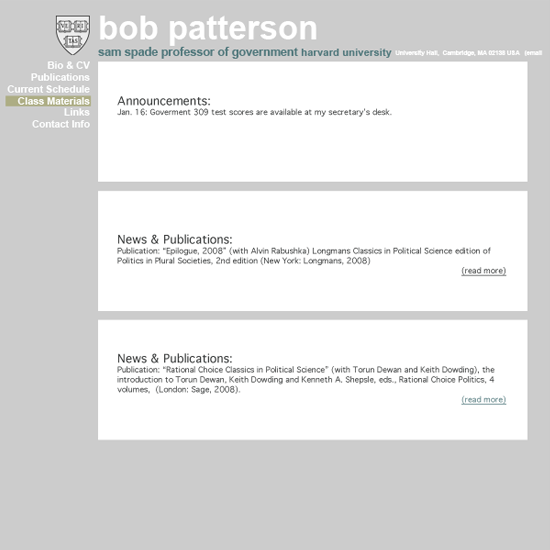
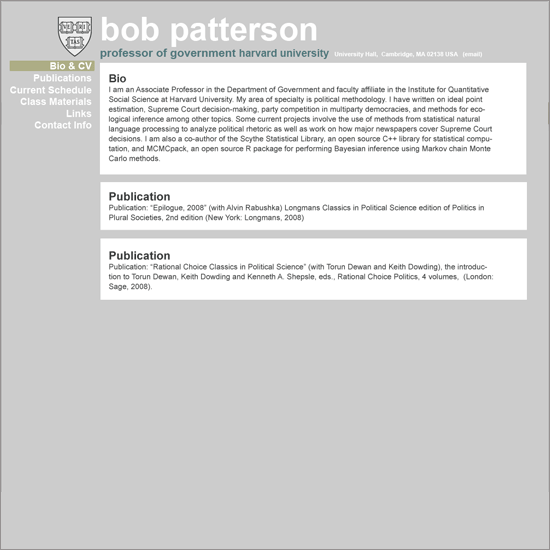
adding flavors for theme 04

diff --git a/sites/all/themes/scholar_theme_04/scholar-theme-04.css b/sites/all/themes/scholar_theme_04/scholar-theme-04.css
@@ -180,7 +180,7 @@ body.sidebar-left #footer, body.two-sidebars #footer {
 
 /* Nodes */
 
-#content-main .node, body.section-node-edit #content, body.section-node-add #content, #comments {
+#content-main .node, body.section-node-edit #content, body.section-node-add #content, #comments, .biblio-entry {
     padding: 10px;
     background: #fff;
     margin-bottom: 10px;

diff --git a/sites/all/themes/scholar_theme_04/scholar-theme-04-a.css b/sites/all/themes/scholar_theme_04/scholar-theme-04-a.css
@@ -1,0 +1,7 @@
+body {
+  background: #53565e;
+  }
+
+h2, h2.title {
+  color: #45a5af;
+  }

diff --git a/sites/all/themes/scholar_theme_04/scholar-theme-04-b.css b/sites/all/themes/scholar_theme_04/scholar-theme-04-b.css
@@ -1,0 +1,7 @@
+body {
+  background: #42526a;
+  }
+
+h2, h2.title {
+  color: #45a5af;
+  }

diff --git a/sites/all/themes/scholar_theme_04/scholar-theme-04-c.css b/sites/all/themes/scholar_theme_04/scholar-theme-04-c.css
@@ -1,0 +1,7 @@
+body {
+  background: #697a64;
+  }
+
+h2, h2.title {
+  color: #adad84;
+  }

diff --git a/sites/all/themes/scholar_theme_04/scholar-theme-04-d.css b/sites/all/themes/scholar_theme_04/scholar-theme-04-d.css
@@ -1,0 +1,7 @@
+body {
+  background: #6c4707;
+  }
+
+h2, h2.title {
+  color: #adad84;
+  }

diff --git a/sites/all/themes/scholar_theme_04/scholar-theme-04-e.css b/sites/all/themes/scholar_theme_04/scholar-theme-04-e.css
@@ -1,0 +1,3 @@
+body {
+  background: #4c4334;
+  }

diff --git a/sites/all/themes/scholar_theme_04/scholar-theme-04-f.css b/sites/all/themes/scholar_theme_04/scholar-theme-04-f.css
@@ -1,0 +1,3 @@
+body {
+  background: #c4ab97;
+  }

diff --git a/sites/all/themes/scholar_theme_04/scholar-theme-04-g.css b/sites/all/themes/scholar_theme_04/scholar-theme-04-g.css
@@ -1,0 +1,3 @@
+body {
+  background: #91997c;
+  }
